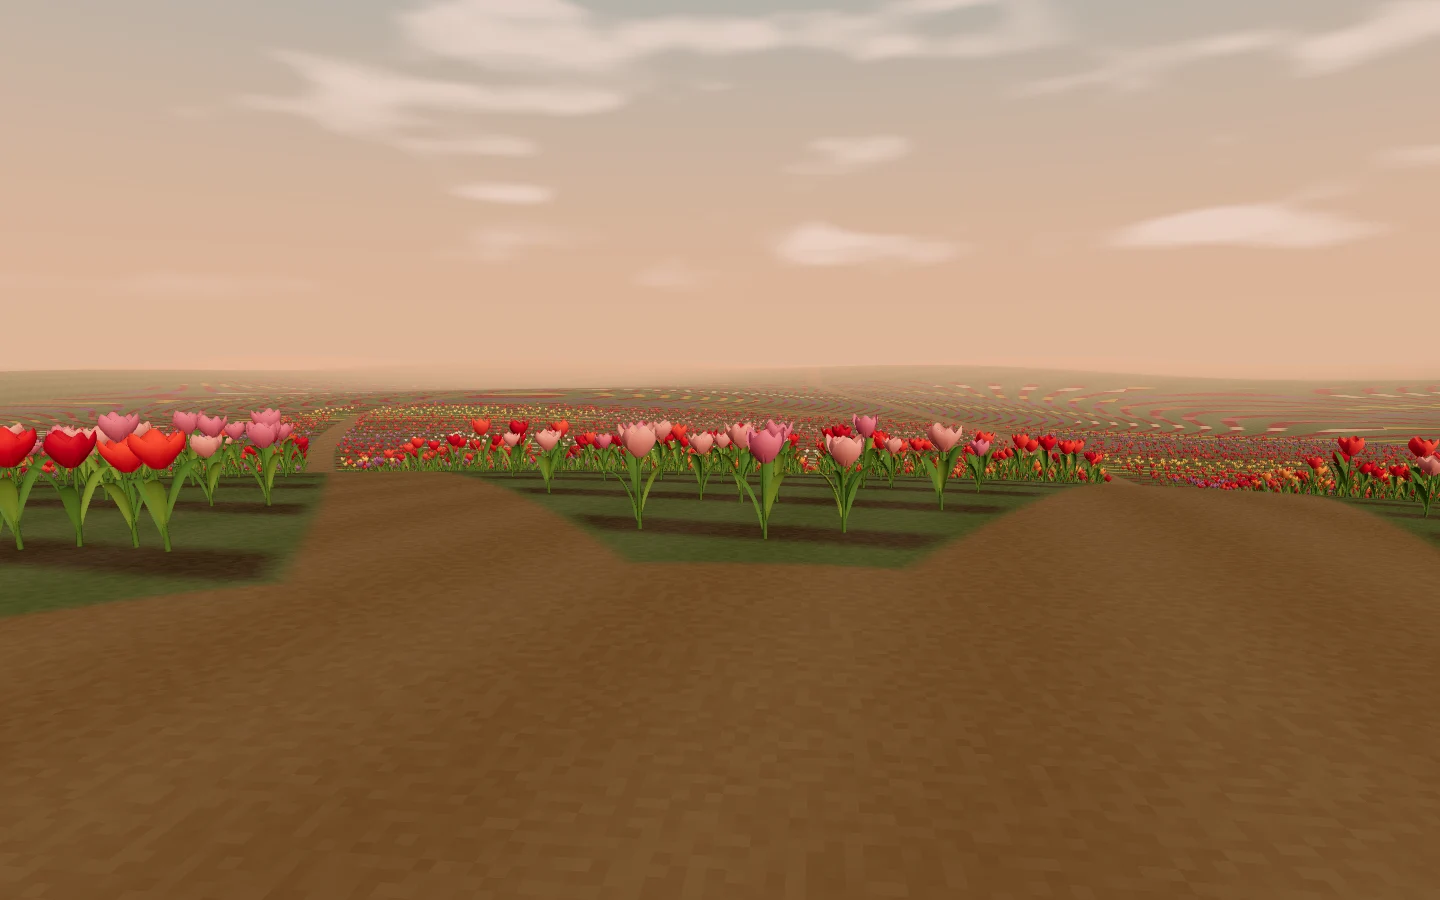
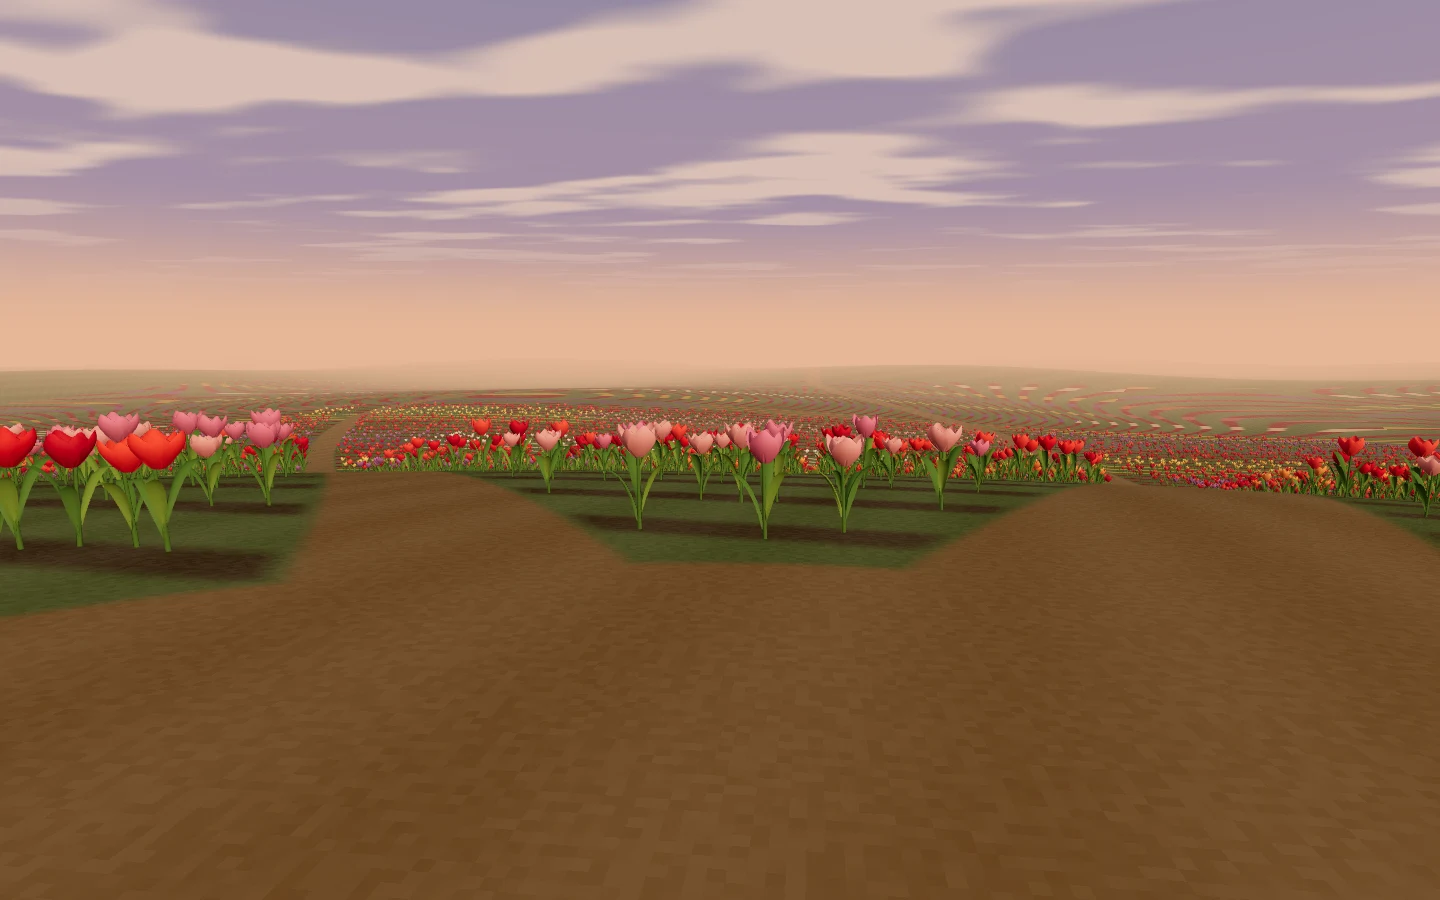
Mejora el cielo del atardecer

diff --git a/src/landscape.ts b/src/landscape.ts
@@ -1,10 +1,10 @@
 import {
-  BackSide, BufferAttribute, Color, FogExp2, HemisphereLight, DirectionalLight, Mesh,
+  BackSide, Color, FogExp2, HemisphereLight, DirectionalLight, Mesh,
   MeshStandardMaterial, PlaneGeometry, Scene, ShaderMaterial, SphereGeometry, Vector3,
 } from 'three';
 import { groundHeight } from './field';
 
-const sun = new Vector3(-.62, .21, -.76).normalize();
+const sun = new Vector3(-.62, .17, -.76).normalize();
 
 function makeTerrain() {
   const size = 768;
@@ -63,9 +63,12 @@ function makeTerrain() {
   return new Mesh(geometry, material);
 }
 
+const hazeColor = new Color('#e6b796');
+
 function makeSky() {
   return new Mesh(new SphereGeometry(550, 28, 16), new ShaderMaterial({
-    side: BackSide, depthWrite: false, fog: false, uniforms: { sun: { value: sun } },
+    side: BackSide, depthWrite: false, fog: false,
+    uniforms: { sun: { value: sun }, haze: { value: hazeColor } },
     vertexShader: `
       varying vec3 direction;
       void main() {
@@ -76,25 +79,57 @@ function makeSky() {
     fragmentShader: `
       varying vec3 direction;
       uniform vec3 sun;
-      float noise(vec2 p) {
-        vec2 i = floor(p), f = fract(p);
-        f = f * f * (3.0 - 2.0 * f);
-        return mix(mix(fract(sin(dot(i,vec2(113.0,71.0))*41.13)*43758.5),
-          fract(sin(dot(i+vec2(1,0),vec2(113.0,71.0))*41.13)*43758.5),f.x),
-          mix(fract(sin(dot(i+vec2(0,1),vec2(113.0,71.0))*41.13)*43758.5),
-          fract(sin(dot(i+1.0,vec2(113.0,71.0))*41.13)*43758.5),f.x),f.y);
+      uniform vec3 haze;
+
+      float hash(vec2 p) {
+        vec3 q = fract(vec3(p.xyx) * .1031);
+        q += dot(q, q.yzx + 33.33);
+        return fract((q.x + q.y) * q.z);
       }
+
+      float noise(vec2 p) {
+        vec2 cell = floor(p);
+        vec2 t = fract(p);
+        t = t * t * (3.0 - 2.0 * t);
+        return mix(mix(hash(cell), hash(cell + vec2(1,0)), t.x),
+          mix(hash(cell + vec2(0,1)), hash(cell + vec2(1,1)), t.x), t.y);
+      }
+
+      float cloudDensity(vec2 p) {
+        mat2 turn = mat2(.87, -.50, .50, .87);
+        float broad = noise(p);
+        p = turn * p * 2.03;
+        float middle = noise(p);
+        p = turn * p * 2.07;
+        return broad * .60 + middle * .28 + noise(p) * .12;
+      }
+
       void main() {
         vec3 d = normalize(direction);
-        float glow = clamp(dot(d,sun),0.0,1.0);
-        vec3 horizon = vec3(.72,.46,.31);
-        vec3 sky = mix(horizon, vec3(.28,.43,.45), smoothstep(-.01,.67,d.y));
-        sky += vec3(.28,.17,.065) * pow(glow,12.0);
-        vec2 p = vec2(atan(d.z,d.x) * 5.0, d.y * 18.0);
-        float n = noise(p) * .62 + noise(p * 2.31) * .28 + noise(p * 4.7) * .1;
-        float cloud = smoothstep(.56,.77,n) * smoothstep(.025,.12,d.y) * (1.0 - smoothstep(.36,.67,d.y));
-        sky = mix(sky, vec3(.88,.71,.63), cloud * .66);
-        sky = mix(sky, vec3(1.0,.92,.68), smoothstep(.99925,.99963,glow));
+        float elevation = max(d.y, 0.0);
+        float sunward = max(dot(d, sun), 0.0);
+        vec3 twilight = mix(vec3(.38,.28,.38), vec3(.65,.36,.22), pow(sunward, 4.0));
+        vec3 zenith = vec3(.057,.174,.32);
+        vec3 sky = mix(haze, twilight, smoothstep(0.0,.17,elevation));
+        sky = mix(sky, zenith, smoothstep(.11,.9,elevation));
+        sky += vec3(.28,.15,.063) * pow(sunward, 18.0) * smoothstep(0.0,.07,elevation);
+        sky += vec3(.36,.21,.08) * pow(sunward, 320.0);
+        sky = mix(sky, vec3(1.0,.94,.72), smoothstep(.99979,.99989,sunward));
+
+        if (elevation > .025) {
+          vec2 plane = d.xz / max(elevation, .06);
+          vec2 p = plane * vec2(.78, 1.52) + vec2(8.1, -2.6);
+          float density = cloudDensity(p);
+          float detail = noise(p * 5.3 + 9.1);
+          float horizonFade = smoothstep(.028,.19,elevation);
+          float structure = density + (detail - .5) * .075;
+          float cover = smoothstep(.48,.70,structure) * horizonFade;
+          float lit = smoothstep(.38,.68,density);
+          vec3 cloud = mix(vec3(.29,.23,.29), vec3(.75,.57,.48), lit);
+          cloud = mix(cloud, vec3(.95,.69,.44), pow(sunward, 7.0) * .75);
+          sky = mix(sky, cloud, cover * .86);
+        }
+
         gl_FragColor = vec4(sky, 1.0);
         #include <colorspace_fragment>
       }
@@ -103,7 +138,7 @@ function makeSky() {
 }
 
 export function createLandscape(scene: Scene) {
-  scene.fog = new FogExp2(new Color('#e6b796'), .0045);
+  scene.fog = new FogExp2(hazeColor, .0045);
   const sky = makeSky();
   sky.frustumCulled = false;
   sky.renderOrder = -10;
